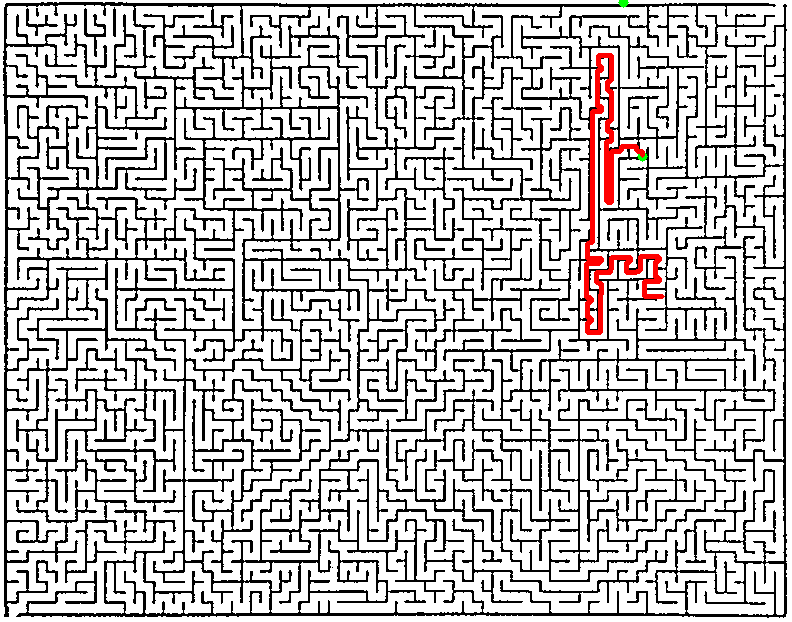
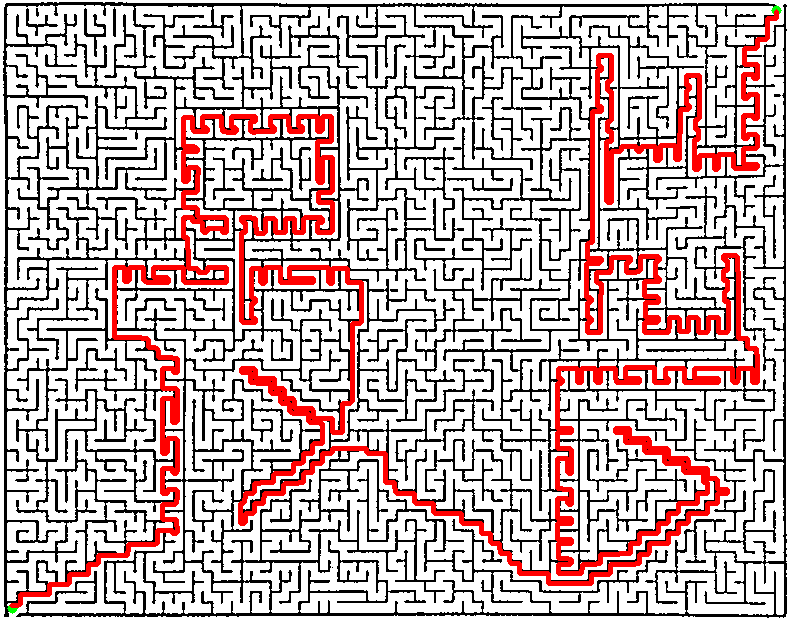
load

diff --git a/demo.py b/demo.py
@@ -134,6 +134,8 @@ def maze_solver(dila, start_point, end_point):
 
     q = deque([(startx, starty)])
     branch = []
+
+    cnt = 0
     while q:
 
         x, y = q.popleft()
@@ -152,9 +154,11 @@ def maze_solver(dila, start_point, end_point):
                     if temx == jx and temy == jy and map[temx][temy] - map[ix][iy] >0:
                         temx, temy = ix, iy
                         cv2.circle(img, (iy, ix), 2, (0, 0, 255), thickness = 1)          
-
+                        cnt += 1
+                        if cnt%50 == 0:
+                            cv2.imwrite(f'./gifs/img{cnt}.png', img)
                 cv2.imwrite('res.png', img)
-                
+
                 return
             if dila[nx][ny] != 0:
                 continue

diff --git a/make_gif.py b/make_gif.py
@@ -1,0 +1,16 @@
+import os
+import PIL
+import imageio
+import matplotlib.pyplot as plt
+import numpy as np
+from PIL import Image
+import PIL
+import matplotlib.image as mpimg
+import matplotlib.pyplot as plt
+path = [f"./gifs/{i}" for i in os.listdir("./gifs")]
+path.sort()
+paths = [ Image.open(i) for i in path]
+print(len(paths))
+imageio.mimsave('./result.gif', paths, fps=20)
+img = Image.open('./result.gif')
+img.show()
